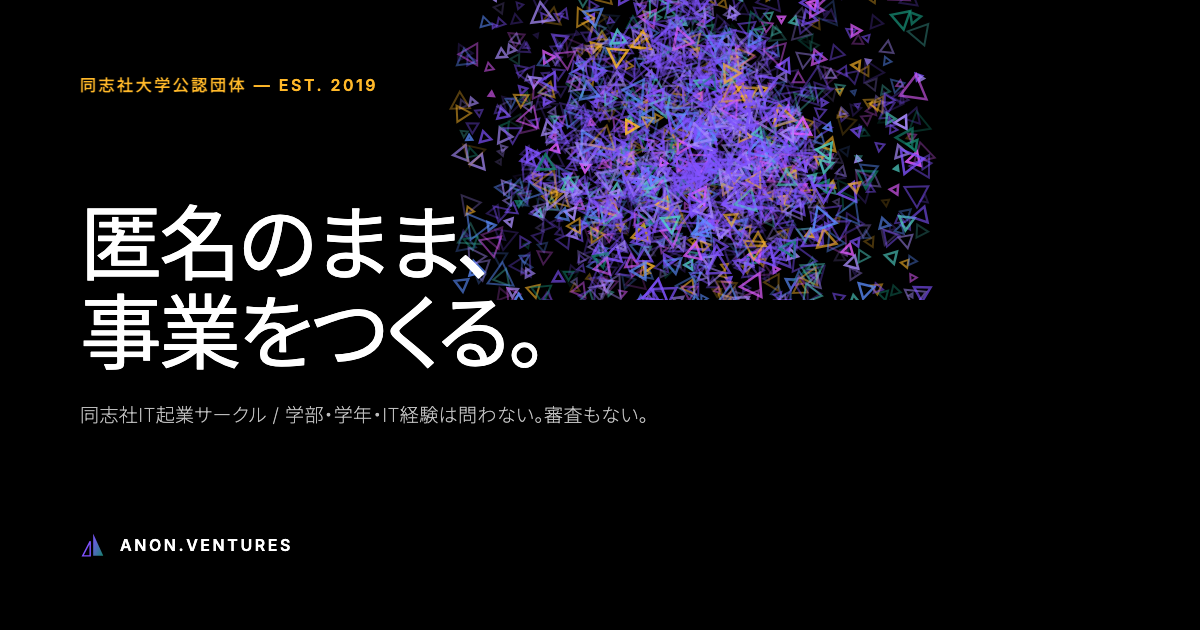
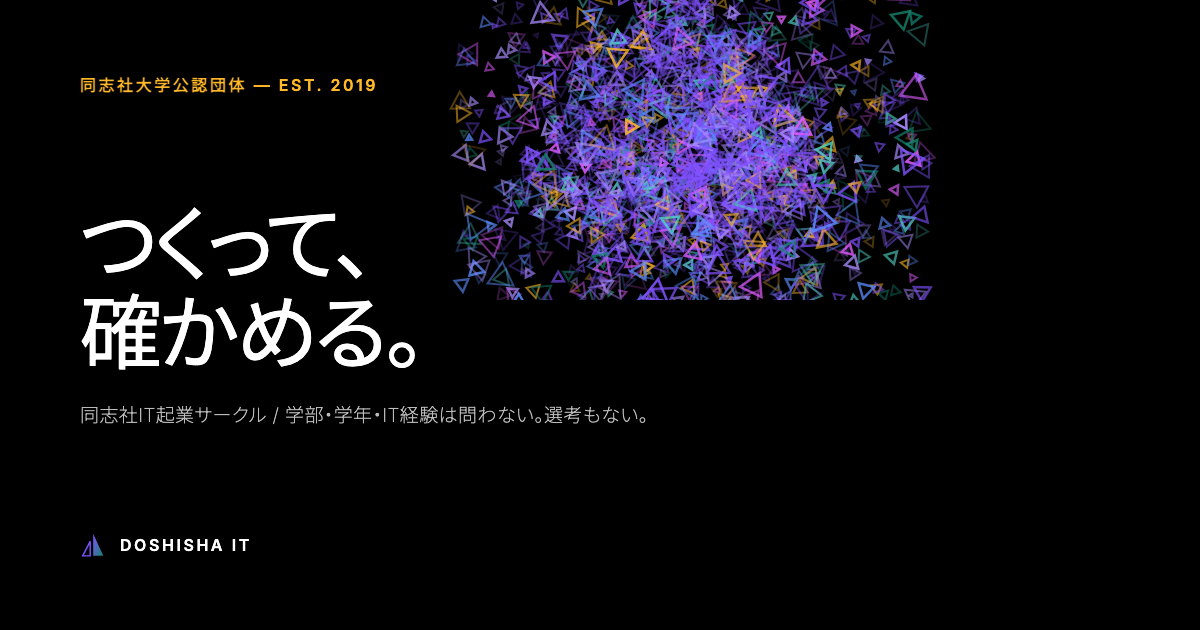
Refocus site copy on building together

Changed region(s): [[0.0617, 0.3317, 0.4625, 0.6032], [0.0925, 0.8444, 0.2467, 0.8746], [0.4317, 0.6333, 0.4933, 0.6937]]

diff --git a/src/data/site.ts b/src/data/site.ts
@@ -5,19 +5,19 @@
 
 export const brand = {
   /** ヘッダーとフッターに出す視覚的なワードマーク。 TODO: 実際のサークル名に差し替え */
-  mark: 'ANON.VENTURES',
+  mark: 'DOSHISHA IT',
   /** title / JSON-LD / OG に使う正式名称。検索されたい語を含める */
   nameJa: '同志社IT起業サークル',
-  tagline: '匿名のまま、事業をつくる。',
+  tagline: 'つくって、確かめる。',
   /** TODO: 実際の設立年に差し替え */
   founded: '2019',
   locale: 'ja_JP',
 } as const;
 
 export const meta = {
-  title: '同志社IT起業サークル ANON.VENTURES｜大学公認・IT未経験可・審査なし',
+  title: '同志社IT起業サークル｜つくって、確かめる。',
   description:
-    '同志社大学公認のIT起業サークル。学部・学年・IT経験は問わず、選考もありません。メンバーは全員匿名で、それぞれの事業をつくっています。他大学の学生と社会人も在籍。通年で参加を受け付けています。',
+    '同志社大学公認のIT起業サークル。アイデアを形にし、仲間と見せ合い、使う人の反応を確かめます。学部・学年・IT経験は不問。選考はなく、通年で参加できます。',
   /** OG 画像は public/og.png（1200×630）。TODO: 実際のビジュアルに差し替え */
   ogImage: '/og.png',
   keywords: [
@@ -40,7 +40,7 @@ export const stats = [
   { label: '選考', value: 'なし', unit: '' },
 ] as const;
 
-/** メンバーが立ち上げた事業。匿名のまま並べる。 TODO: 実際の実績に差し替え */
+/** メンバーが立ち上げた事業。 TODO: 実際の実績に差し替え */
 export const ventures = [
   {
     id: '01',
@@ -92,22 +92,22 @@ export const activities = [
   {
     when: '週1回',
     title: '定例会',
-    body: '進捗を持ち寄る。相談ではなく報告から始める。出せる進捗がない週は、それをそのまま言う。',
+    body: '進捗を持ち寄り、次に試すことを話す。うまく進まなかった週は、詰まったところから相談できる。',
   },
   {
     when: '平日の夜',
     title: 'もくもく会',
-    body: '今出川・京田辺とオンラインで並行して開く。ひとりで詰まっている時間を短くするためにある。',
+    body: '今出川、京田辺、オンラインで開く。各自の作業を進め、詰まったところはその場で聞ける。',
   },
   {
     when: '随時',
     title: '相互レビュー',
-    body: 'コード、価格、ランディングページ、利用規約。遠慮なく叩く。身内向けの褒め合いはしない。',
+    body: 'コードや価格、ランディングページを見せ合う。気づいた問題を伝え、直し方を一緒に考える。',
   },
   {
     when: '学期に数回',
     title: '外部との接続',
-    body: '卒業したメンバーと、投資家や事業会社の担当者を招く非公開の場。記録は残さない。',
+    body: '卒業したメンバーや、投資家、事業会社の担当者を招き、事業について話を聞く。',
   },
 ] as const;
 
@@ -129,8 +129,8 @@ export const faq = [
     a: '入れる。まず動くものを一つ世に出すことを目標にしている人が多い。起業は結果であって、入会の条件ではない。',
   },
   {
-    q: '匿名というのは、大学にも名乗らないのか',
-    a: '大学には、公認団体として必要な範囲で代表者を届け出ている。匿名にしているのはサークルの内部と外部への発信で、大学の手続きから外れているわけではない。',
+    q: '活動中は本名を使うか',
+    a: '普段の活動ではハンドルネームを使っている。大学への届け出など、公認団体として必要な手続きは代表者が行う。',
   },
   {
     q: '費用はかかるか',
@@ -150,17 +150,17 @@ export const joinSteps = [
   {
     n: '1',
     title: 'フォームを送る',
-    body: '書くのはハンドルネームと、連絡のつく手段だけ。本名の欄はない。',
+    body: '連絡先と、興味のあることを送る。やりたいことが固まっていなくても構わない。',
   },
   {
     n: '2',
     title: 'Discordに入る',
-    body: 'その日か翌日に招待が届く。まずは過去ログを眺めるだけでいい。',
+    body: '招待が届いたら、活動の様子を見てみる。気になることがあれば質問できる。',
   },
   {
     n: '3',
     title: '次の定例に来る',
-    body: '見学のつもりで来て、そのまま残る人が多い。',
+    body: 'まずは見学から。今取り組んでいることや、これから試したいことを話せる。',
   },
 ] as const;
 
@@ -173,14 +173,14 @@ export const links = {
   mail: 'PLACEHOLDER@example.com',
 } as const;
 
-/** 画像。TODO: 実際の写真に差し替え（顔が写らない構図で撮る） */
+/** 画像。TODO: 実際の活動写真に差し替え */
 export const media = {
   inside: {
     src: '/images/inside.svg',
     width: 1600,
     height: 900,
-    alt: '定例会の様子。参加者の顔が写らない角度から撮影している。',
-    caption: '定例会。写真に顔は入れていない。',
+    alt: '定例会の様子を示す仮の画像。',
+    caption: '定例会の様子（写真は公開前に差し替え予定）。',
   },
 } as const;
 

diff --git a/tools/og-template.html b/tools/og-template.html
@@ -20,14 +20,14 @@
 <div class="wrap">
   <div class="eyebrow">同志社大学公認団体 — EST. 2019</div>
   <div>
-    <h1>匿名のまま、<br>事業をつくる。</h1>
-    <div class="sub">同志社IT起業サークル / 学部・学年・IT経験は問わない。審査もない。</div>
+    <h1>つくって、<br>確かめる。</h1>
+    <div class="sub">同志社IT起業サークル / 学部・学年・IT経験は問わない。選考もない。</div>
   </div>
   <div class="foot">
     <svg viewBox="0 0 24 24"><defs><linearGradient id="g" x1="0" y1="0" x2="1" y2="1"><stop offset="0" stop-color="#8052ff"/><stop offset="1" stop-color="#15846e"/></linearGradient></defs>
     <path d="M12.2 1.5 L21.5 22 L12.2 22 Z" fill="url(#g)"/>
     <path d="M9.4 8.6 L2.5 22 L9.4 22 Z" fill="none" stroke="#8052ff" stroke-width="1.3"/></svg>
-    <span>ANON.VENTURES</span>
+    <span>DOSHISHA IT</span>
   </div>
 </div>
 <script>

diff --git a/src/scripts/counters.ts b/src/scripts/counters.ts
@@ -1,6 +1,6 @@
 /*
   数字の「解読」演出。伏せられていた値が確定するように見せる。
-  匿名という主題に合わせて、数え上げではなく桁の走査にしている。
+  数え上げではなく桁の走査で数値を見せている。
 */
 
 const GLYPHS = '0123456789';

diff --git a/README.md b/README.md
@@ -27,7 +27,7 @@ SITE_URL=https://example.jp npm run build
 
 | 場所 | 項目 | 現在の仮値 |
 |---|---|---|
-| `brand.mark` | 視覚的なワードマーク | `ANON.VENTURES` |
+| `brand.mark` | 視覚的なワードマーク | `DOSHISHA IT` |
 | `brand.nameJa` | 検索に出したい正式名称 | 同志社IT起業サークル |
 | `brand.founded` | 設立年 | 2019 |
 | `stats` | 設立・在籍・法人化・選考 | 2019年 / 42名 / 3社 / なし |
@@ -42,7 +42,7 @@ SITE_URL=https://example.jp npm run build
 
 `links` の値を空文字にすると、フッターのその行は出力されない。
 
-数値と実績は検索結果とSNSに出る。**事実と異なる値のまま公開しない。** 実績の名称は意図的に伏せ字にしてあるので、社名やサービス名を書く必要はない。
+数値と実績は検索結果とSNSに出る。**事実と異なる値のまま公開しない。** 実績は活動内容が伝わる範囲で記載し、社名やサービス名の公開は当事者と相談して決める。
 
 画像を差し替えるときは `public/images/` に置き、`media.inside` の `src` / `width` / `height` / `alt` を実寸に合わせて更新する。`width` と `height` はレイアウトのずれ（CLS）を防ぐために必要。
 
